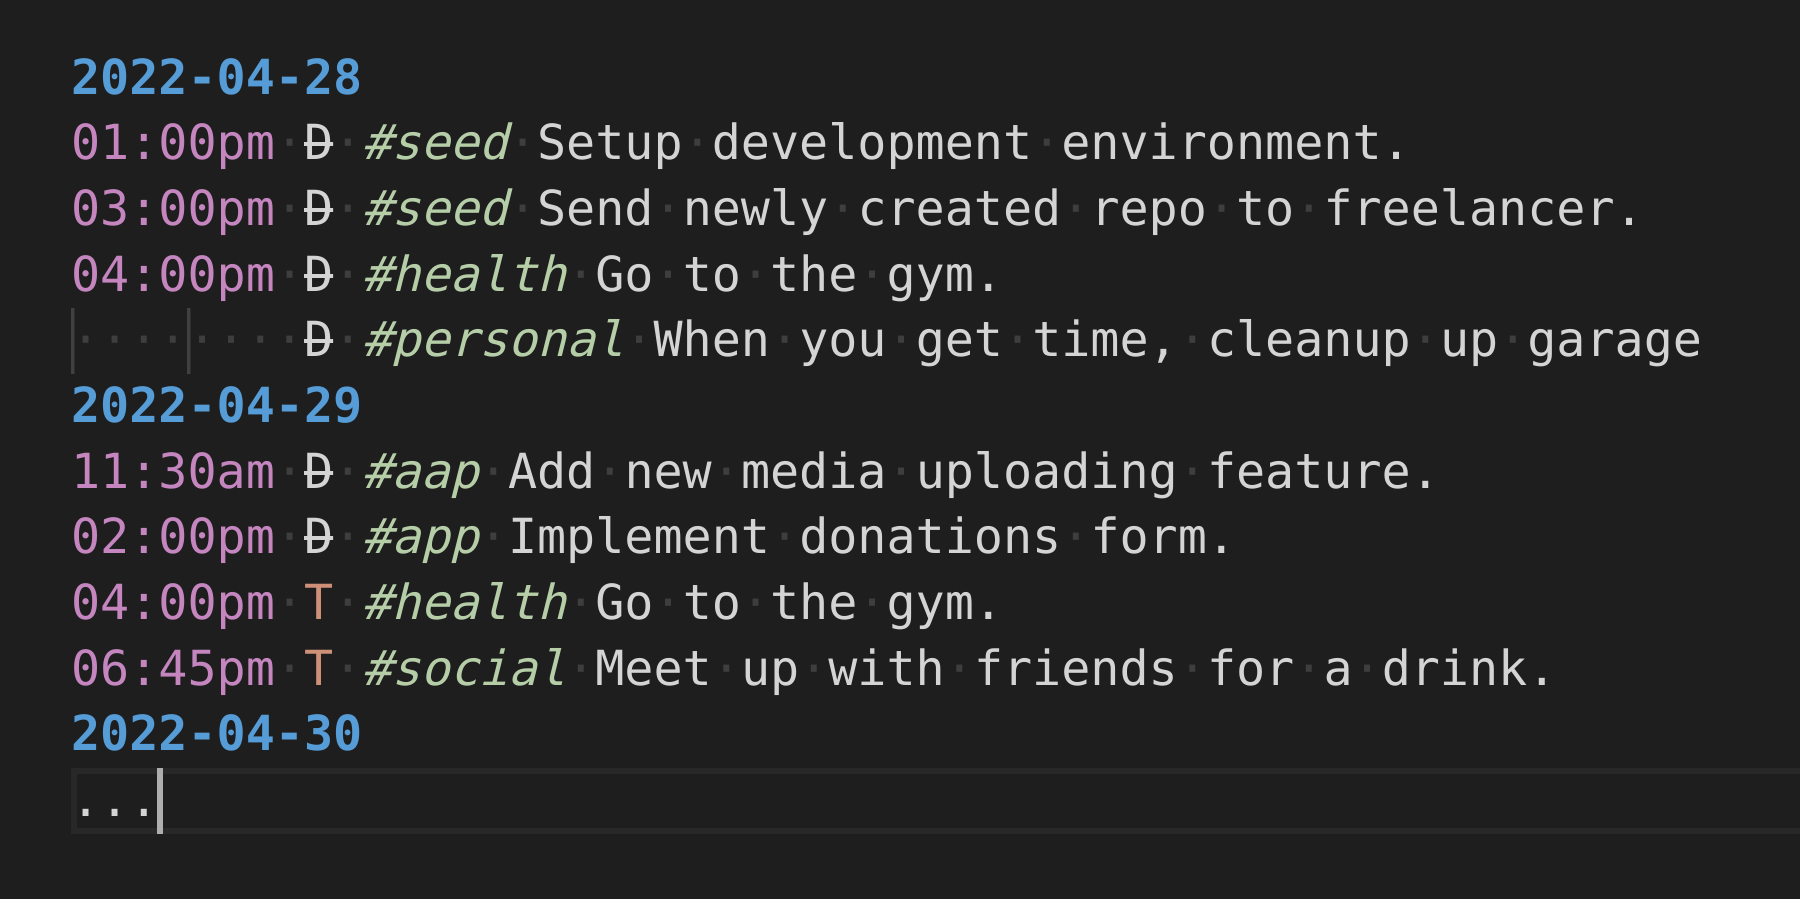
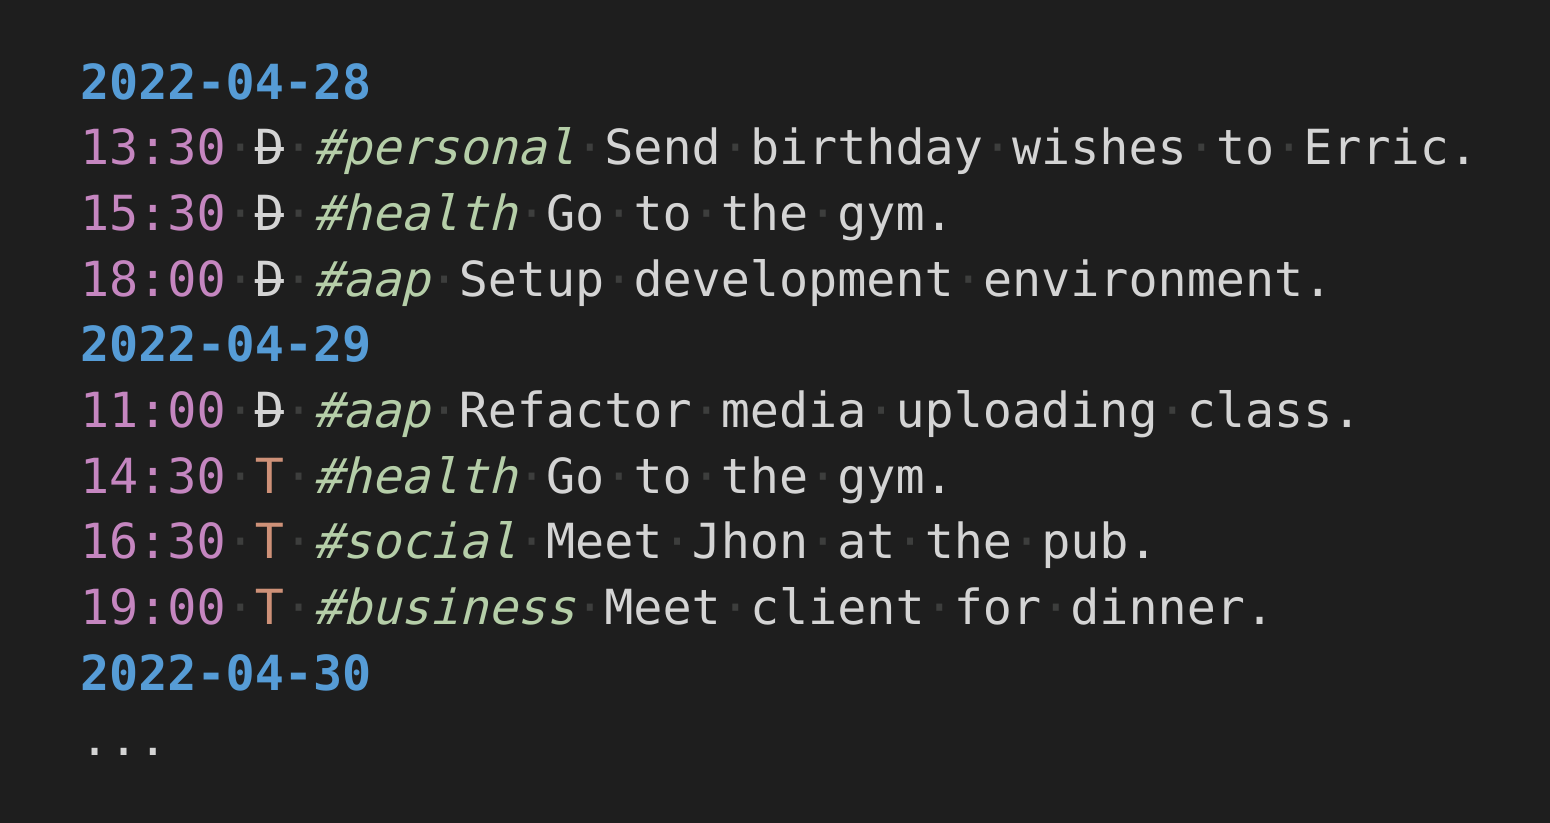
Adds a couple snippets

Changed region(s): [[0.031, 0.0608, 0.96, 0.7594], [0.031, 0.7898, 0.2477, 0.9417]]

diff --git a/README.md b/README.md
@@ -1,15 +1,20 @@
 # Life Log
 
-My personal agenda and task management method. I keep a single text file ending 
-with the extension of `.life`. Inside this file I list everything I have done 
-and still need to do. 
+My personal agenda and task management method. I keep a single text file ending
+with the extension of `.life`. Inside this file I list everything I have done
+and still need to do.
 
 ![Life log file syntax example](https://raw.githubusercontent.com/VernonGrant/life-log/master/img/example.png)
 
 #### All there is to know:
 
 - Date: `0000-00-00`
-- Time: `00:00am`
+- Time: `00:00`
 - Todo: `T`
 - Done: `D`
 - Tags: `#tag`
+
+#### Available Snippets:
+
+- Insert date line: `ld`
+- Insert new task: `lt`
